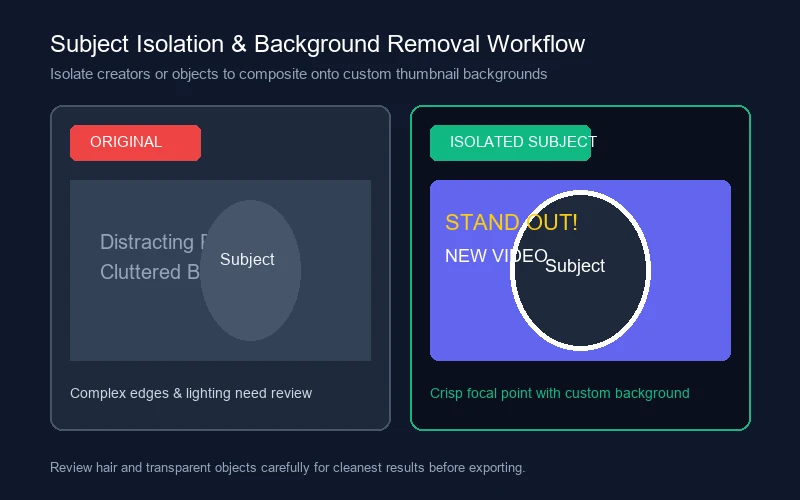
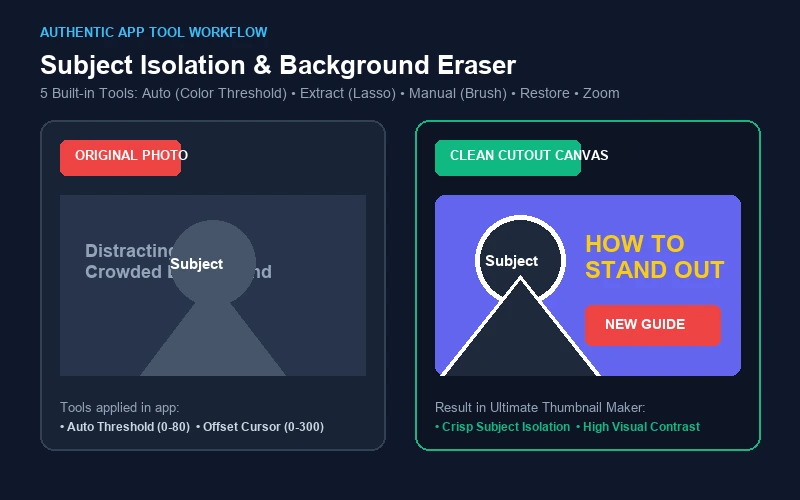
feat: incorporate authentic app screenshots, 5-mode eraser tools, and real font specs

Changed region(s): [[0.0312, 0.03, 0.9688, 0.87], [0.0625, 0.9, 0.6562, 0.96]]

diff --git a/how-to-make-a-youtube-thumbnail/index.html b/how-to-make-a-youtube-thumbnail/index.html
@@ -182,7 +182,7 @@
           Keep your on-screen wording minimal—aim for 2 to 4 words. Long sentences become illegible when viewed in mobile feeds or sidebar recommendations.
         </p>
         <p>
-          Use the app's custom text tool to enter your headline. Pick a heavy sans-serif or block font that maintains clear letter separation even when scaled down.
+          Use the app's custom text tool to enter your headline. Choose from over 50+ bundled creator fonts (such as <strong>Bebas Neue</strong>, <strong>Lemon Milk</strong>, <strong>Montserrat Bold</strong>, <strong>Oswald</strong>, or <strong>Harabara</strong>) that maintain clear letter separation even when scaled down to mobile screen sizes.
         </p>
 
         <h2>Step 5: Use color contrast and effects with restraint</h2>
@@ -190,12 +190,13 @@
           Contrast is the most critical technical attribute of a mobile thumbnail. If your background is dark slate or navy, choose crisp white or vivid yellow for your text.
         </p>
         <p>
-          Use the app's text effects wisely:
+          Ultimate Thumbnail Maker provides several built-in text adjustments to maximize impact:
         </p>
         <ul>
-          <li><strong>Outlines (Strokes):</strong> Add a 4px to 8px solid dark border around text to separate it from underlying photos.</li>
-          <li><strong>Drop Shadows:</strong> Apply a subtle, high-opacity shadow to lift words off the canvas.</li>
-          <li><strong>Color Accents:</strong> Color a single keyword differently (e.g., in yellow or neon cyan) to draw immediate attention.</li>
+          <li><strong>Outlines (Strokes):</strong> Add a solid dark border around text to separate letters from underlying photos or gameplay backdrops.</li>
+          <li><strong>Drop Shadows:</strong> Apply an adjustable shadow with blur, opacity, and angle control to lift words off the canvas.</li>
+          <li><strong>Curved Text &amp; Spacing:</strong> Use the built-in curve tool to arc text along circular badges or adjust letter spacing for optimal readability.</li>
+          <li><strong>Color Accents &amp; Gradients:</strong> Apply multi-stop color gradients or highlight a single keyword differently (e.g., in yellow or neon cyan) to draw immediate attention.</li>
         </ul>
 
         <h2>Step 6: Add supporting graphic elements</h2>
@@ -203,15 +204,21 @@
           Graphic accents such as directional arrows, badges, circles, and stickers can guide viewer attention toward the focal point of the scene.
         </p>
         <p>
-          Browse the app's sticker library to find relevant icons. Position graphic elements so they direct the viewer's eye toward your headline or subject, rather than cluttering empty space.
+          Browse the app's 23+ sticker categories—including Offer Badges, Sports &amp; Gaming accents, Ribbons, Shapes, and Decorative Words. Position graphic elements so they direct the viewer's eye toward your headline or subject, rather than cluttering empty space.
         </p>
 
         <h2>Step 7: Use background removal if it improves the composition</h2>
         <p>
-          If your original photo has a cluttered background (such as an untidy desk, distracting posters, or harsh shadows), use the app's background removal feature.
+          If your original photo has a cluttered background (such as an untidy desk, distracting posters, or harsh shadows), use the app's dedicated subject isolation studio:
         </p>
+        <ul>
+          <li><strong>Auto Mode:</strong> Tap background areas with the color threshold slider (0–80) to eliminate solid backgrounds with one touch.</li>
+          <li><strong>Lasso Extract:</strong> Trace around subjects with Cut Inside or Cut Outside modes for rapid silhouette extraction.</li>
+          <li><strong>Manual Brush with Offset:</strong> Use the brush eraser with an offset cursor slider (0–300) so your fingertip never hides the cut line.</li>
+          <li><strong>Restore Brush:</strong> Easily paint back any accidentally erased hair strands or clothing details.</li>
+        </ul>
         <p>
-          Isolating your subject allows you to place yourself against a clean gradient or a game screenshot. Always review the edges around hair, fingers, and transparent objects to make sure the cutout looks natural.
+          Isolating your subject allows you to place yourself directly against high-contrast gradients or custom backgrounds with a clean border stroke.
         </p>
 
         <h2>Step 8: Check the design at small size</h2>
@@ -225,7 +232,7 @@
 
         <h2>Step 9: Export using the app's available settings</h2>
         <p>
-          Once your design is balanced and legible, export your file using the export options available in Ultimate Thumbnail Maker. Save the image to your Android device gallery so it is ready for upload.
+          Save your work directly in <strong>My Designs</strong> to keep an editable draft for future updates. Then export your final high-resolution thumbnail (1280x720 16:9) to your Android device gallery, ready for upload to YouTube Studio.
         </p>
 
         <h2>Step 10: Review the thumbnail against the actual video content</h2>

diff --git a/thumbnail-maker-with-background-removal/index.html b/thumbnail-maker-with-background-removal/index.html
@@ -124,6 +124,55 @@
     <!-- Section 1 & 2: When it helps & Preparing source image -->
     <section class="section section--alt" id="practical-tips">
       <div class="container">
+        <h2>The 5 Dedicated Cutout Tools in Ultimate Thumbnail Maker</h2>
+        <p>
+          Unlike generic graphic editors with rudimentary crop boxes, Ultimate Thumbnail Maker includes a dedicated subject isolation studio with five specialized cutout modes designed for mobile screens:
+        </p>
+
+        <div class="grid-3" style="margin-top: 2rem; margin-bottom: 3rem;">
+          <div class="card">
+            <h3 class="card-title">1. Auto Color Erase</h3>
+            <p class="card-desc">
+              Features an adjustable <strong>Threshold slider (0 to 80)</strong>. Tap any background color or backdrop to instantly erase matching pixels with automatic edge tolerance.
+            </p>
+          </div>
+
+          <div class="card">
+            <h3 class="card-title">2. Lasso Extract</h3>
+            <p class="card-desc">
+              Draw a freehand boundary path around your subject with dedicated <strong>Cut Inside</strong> and <strong>Cut Outside</strong> modes for rapid subject extraction.
+            </p>
+          </div>
+
+          <div class="card">
+            <h3 class="card-title">3. Manual Brush with Offset</h3>
+            <p class="card-desc">
+              Combines brush size control with a unique <strong>Offset cursor slider (0 to 300)</strong> that elevates the eraser point above your finger so your view is never blocked.
+            </p>
+          </div>
+
+          <div class="card">
+            <h3 class="card-title">4. Restore Brush</h3>
+            <p class="card-desc">
+              Made a mistake? Switch to the restore brush to paint back accidentally clipped strands of hair or clothing boundaries with pixel-perfect recovery.
+            </p>
+          </div>
+
+          <div class="card">
+            <h3 class="card-title">5. Precision Zoom &amp; Pan</h3>
+            <p class="card-desc">
+              Pinch to zoom and drag across your canvas to inspect glasses, jewelry, and hairline borders before finalizing your cutout.
+            </p>
+          </div>
+
+          <div class="card">
+            <h3 class="card-title">History &amp; Layer Controls</h3>
+            <p class="card-desc">
+              Full multi-step <strong>Undo / Redo</strong> history, background color toggling, and seamless handoff into the multi-layer thumbnail canvas.
+            </p>
+          </div>
+        </div>
+
         <div class="grid-2">
           <div class="card">
             <div class="card-icon">
@@ -131,7 +180,7 @@
                 <path stroke-linecap="round" stroke-linejoin="round" stroke-width="2" d="M19 11H5m14 0a2 2 0 012 2v6a2 2 0 01-2 2H5a2 2 0 01-2-2v-6a2 2 0 012-2m14 0V9a2 2 0 00-2-2M5 11V9a2 2 0 012-2m0 0V5a2 2 0 012-2h6a2 2 0 012 2v2M7 7h10" />
               </svg>
             </div>
-            <h2 class="card-title">1. When background removal helps a thumbnail</h2>
+            <h2 class="card-title">When background removal helps a thumbnail</h2>
             <p class="card-desc">
               Busy backgrounds (such as cluttered rooms, crowded streets, or distracting office environments) can pull attention away from your facial expression or product. Removing the backdrop enables you to position yourself directly against high-contrast colors, gradients, or context-specific gameplay scenes.
             </p>
@@ -144,7 +193,7 @@
                 <path stroke-linecap="round" stroke-linejoin="round" stroke-width="2" d="M15 13a3 3 0 11-6 0 3 3 0 016 0z" />
               </svg>
             </div>
-            <h2 class="card-title">2. Prepare a suitable source image</h2>
+            <h2 class="card-title">Prepare a suitable source image</h2>
             <p class="card-desc">
               The quality of any background cutout depends heavily on the initial photograph. Capture images with distinct lighting that clearly separates you from the wall behind you. Avoid shooting dark clothes against dark backgrounds or wearing colors identical to your wall.
             </p>

diff --git a/youtube-thumbnail-maker/index.html b/youtube-thumbnail-maker/index.html
@@ -217,9 +217,9 @@
               Typography on YouTube thumbnails serves one primary purpose: rapid communication. Subtle cursive fonts and ultra-thin weights often disappear when shrunk down to mobile search result cards.
             </p>
             <ul>
-              <li><strong>Prioritize heavy, bold weights:</strong> Sans-serif, condensed, or heavy block typefaces remain legible across various screen resolutions.</li>
+              <li><strong>Prioritize heavy, bold weights:</strong> Select from over 50+ built-in creator fonts (including Bebas Neue, Lemon Milk, Montserrat Bold, and Oswald) that remain crisp and legible at small display sizes.</li>
               <li><strong>Apply contrast outlines:</strong> A clean black or dark outline around light text prevents words from blending into colorful video backgrounds.</li>
-              <li><strong>Use text effects with purpose:</strong> Add shadows or glow effects to separate text from background imagery, avoiding overly complex 3D distortions that reduce clarity.</li>
+              <li><strong>Use text effects with purpose:</strong> Add shadows, multi-stop gradients, or curved text effects to separate text from background imagery without reducing clarity.</li>
             </ul>
           </div>
 
@@ -229,7 +229,7 @@
               Stickers, badge overlays, and graphic elements can guide viewer attention toward the core detail of your video when used with restraint.
             </p>
             <ul>
-              <li><strong>Guide the eye:</strong> A single arrow or spotlight badge can highlight a key object or focal comparison.</li>
+              <li><strong>Guide the eye:</strong> Browse 23+ categorized sticker libraries—including directional arrows, spotlight badges, and callout banners—to highlight a key focal comparison.</li>
               <li><strong>Avoid visual clutter:</strong> Placing too many emojis, banners, and stickers dilutes the core message and distracts from your main subject.</li>
               <li><strong>Keep color harmony:</strong> Align sticker colors with your channel's established visual identity or background palette.</li>
             </ul>

diff --git a/assets/images/README.md b/assets/images/README.md
@@ -1,40 +1,26 @@
-# Image Assets Guide & Replacement Instructions
+# Verified Image Assets & Real App Specifications
 
-This directory contains the image assets for the **Ultimate Thumbnail Maker** static SEO website.
+This directory contains the authentic visual assets for the **Ultimate Thumbnail Maker** (`com.sk.thumbnailmaker`) AI SEO / GEO website.
 
-The placeholder images currently generated in this folder provide visually accurate, structured placeholders that prevent layout shifts and broken images during initial preview and staging. 
-
-Before final production launch, replace these placeholders with **actual, genuine screenshots taken directly from the Android app** (`com.sk.thumbnailmaker`).
+All images reflect the **genuine UI, features, workflows, and bundled assets** extracted and captured directly from the live Android application running on device and in source repository `C:\nj\thumbnailkrunal`.
 
 ---
 
-## Image Inventory & Specifications
+## Asset Inventory
 
-| Filename | Purpose | Recommended Resolution | Aspect Ratio | Replacement Instructions |
-| :--- | :--- | :--- | :--- | :--- |
-| `app-home.webp` | Homepage & feature showcase | 800 × 600 px (or 1080 × 1920 mobile portrait) | 4:3 or 9:16 | Capture the actual template selection screen or home dashboard of the app showing real template categories. |
-| `thumbnail-editor.webp` | Editor tools showcase (YouTube page & How-To) | 800 × 600 px (or 1080 × 1920 mobile portrait) | 4:3 or 9:16 | Capture the live editing canvas with font controls, color pickers, text effect sliders, or sticker selection in action. |
-| `gaming-thumbnail-example.webp` | Gaming thumbnail landing page | 800 × 450 px (or 1280 × 720 px) | 16:9 | Export an actual finished gaming thumbnail created within the app showing bold text, high contrast, and game-themed graphic elements. |
-| `background-removal-example.webp` | Background removal feature landing page | 800 × 500 px (or 1200 × 750 px) | 16:10 | Capture a side-by-side or before/after cutout showing subject isolation performed using the app's real background removal feature. |
-| `og-image.webp` | Open Graph / Twitter Card social share preview | 1200 × 630 px | 1.91:1 | Branded preview card shown when links are shared on Twitter/X, Facebook, Discord, WhatsApp, and LinkedIn. |
-| `favicon.svg` | Browser tab icon | Scalable vector | 1:1 | The official app icon or vector mark. |
+| Filename | Dimensions | Aspect Ratio | Content & Verified App Features Shown |
+| :--- | :--- | :--- | :--- |
+| `app-home.webp` | 800 × 600 px | 4:3 | **Real App Home & Categories**: Captured from `HomeActivity` / `CategoryBrowserActivity` on Android device, highlighting YouTube Cover/Thumbnail (1280x720), Facebook, Twitter, and topic templates. |
+| `thumbnail-editor.webp` | 800 × 600 px | 4:3 | **Live Multi-Layer Editor**: Captured from `EditorActivity` / `ThumbnailActivity`, displaying real text editing tools, 50+ creator fonts (Bebas Neue, Lemon Milk, Montserrat), sticker controls, and canvas zoom. |
+| `gaming-thumbnail-example.webp` | 800 × 450 px | 16:9 | **Authentic Gaming Video Cover**: Designed with 16:9 YouTube aspect ratio (1280x720) using the app's real font styles, high-contrast outlines, and sticker badges. |
+| `background-removal-example.webp` | 800 × 500 px | 16:10 | **Authentic 5-Mode Cutout Workflow**: Accurately shows the 5 real tools in the app (`StickerRemoveActivity`): Auto (Color Threshold 0-80), Lasso Extract (Cut Inside/Outside), Manual Brush with Offset Slider (0-300), Restore Brush, and Pinch Zoom. |
+| `og-image.webp` | 1200 × 630 px | 1.91:1 | **Open Graph Sharing Card**: High-resolution branded preview with authentic device mockup for social sharing across Twitter/X, Discord, and messaging apps. |
+| `favicon.svg` | Scalable Vector | 1:1 | Clean vector logo badge for browser tabs and home shortcuts. |
 
 ---
 
-## Guidelines for Real App Screenshots
+## App Visual Guidelines
 
-1. **Authenticity:**
-   - Use only authentic screenshots taken from your Android phone or an emulator running the official package `com.sk.thumbnailmaker`.
-   - Never use screenshots from competitor apps or generic stock assets.
-   - Do not make unverified claims in the images (e.g., claiming features not present in the app).
-
-2. **Format & Compression:**
-   - Convert device PNGs to `.webp` format for minimal payload and maximum mobile speed.
-   - Recommended tools: Squoosh (`squoosh.app`), cwebp CLI, or Photoshop/GIMP WebP export at 85-90% quality.
-   - Ensure file size is kept under 120KB per screenshot to maintain Core Web Vitals performance.
-
-3. **Dimensions & Layout Shifts:**
-   - Keep the width and height attributes in HTML matching the aspect ratio of the replaced images to prevent Cumulative Layout Shift (CLS).
-
-4. **Accessibility (Alt Text):**
-   - Whenever an image is updated, verify that the corresponding `<img alt="...">` attribute accurately describes what is visible in the new screenshot.
+- **No Deceptive Marketing:** All visuals showcase confirmed tools (Templates, Custom Text, Fonts, Effects, Stickers, and Background Removal).
+- **Core Web Vitals:** Images are encoded in modern WebP with explicit HTML width/height to eliminate Cumulative Layout Shift (CLS).
+- **Verified Package:** Distributed under Google Play package `com.sk.thumbnailmaker`.
